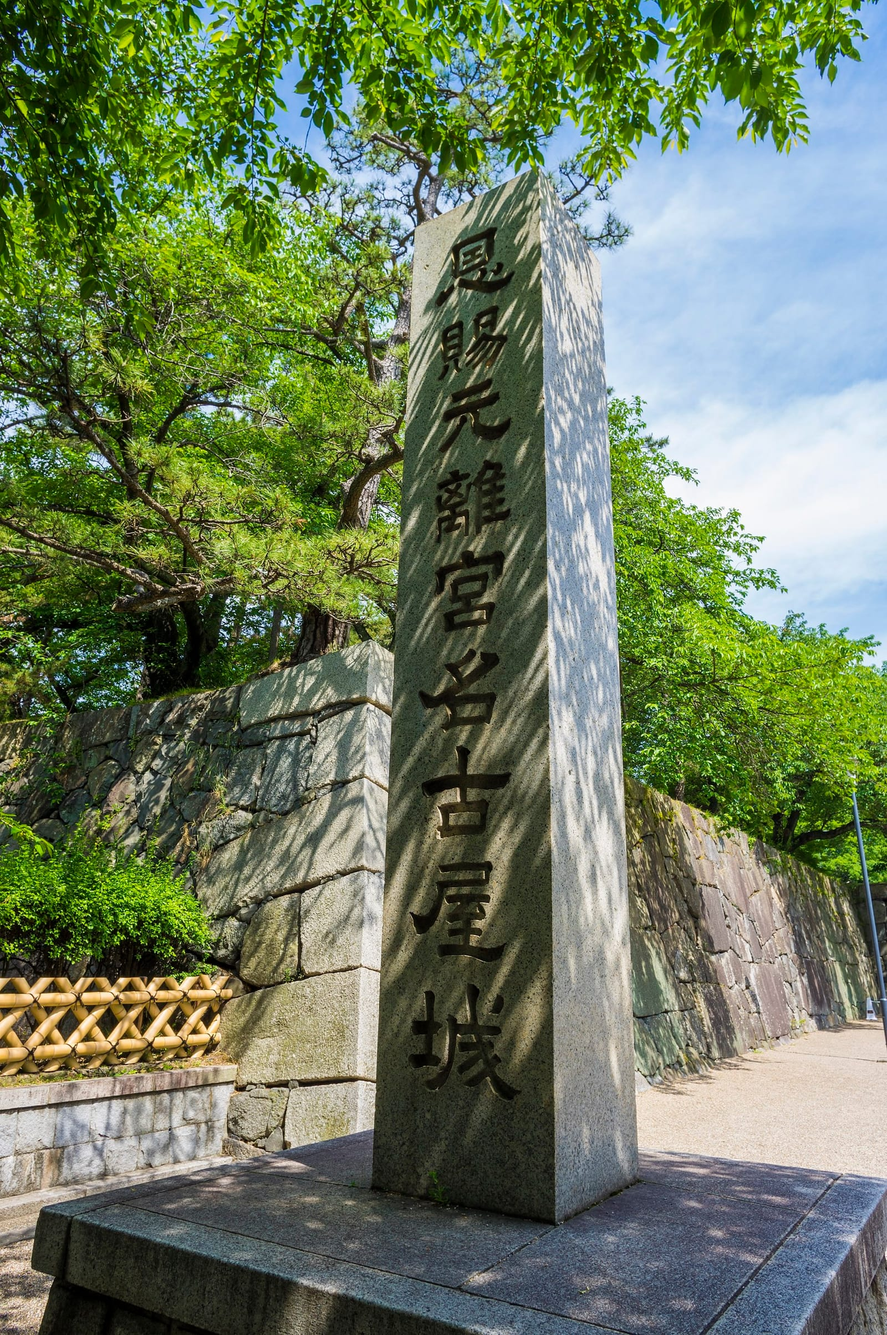
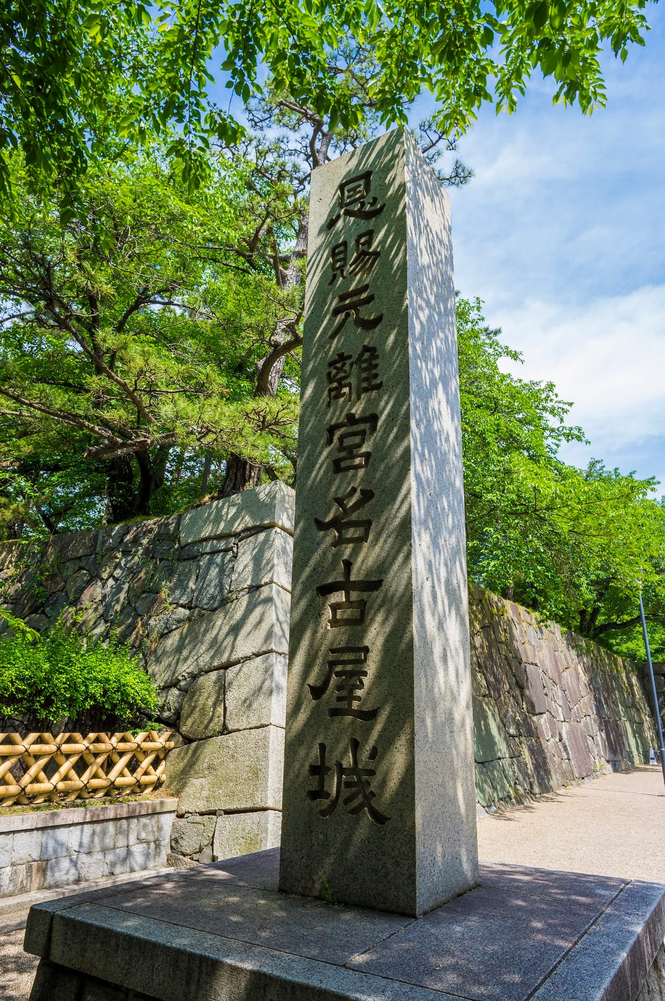
Lead Nagoya Castle with the keep photo and refine the type
- Main image is now the castle keep; the stone marker moves to the gallery
- New optional image_focus field sets where the main photo is cropped;
  Nagoya Castle uses 70% 50% so the keep stays whole on phones
- Body, navigation and labels: Inter -> Jost
- Japanese names (lang="ja"): Shippori Mincho instead of the phone's Gothic
- Update dist tests for the new main image

Claude-Session: https://claude.ai/code/session_0149cuZUsVRWJcY2Hzv2etQa

Changed region(s): [[0.1233, 0.6515, 0.185, 0.6825]]

diff --git a/tests/dist/spot-pages.test.ts b/tests/dist/spot-pages.test.ts
@@ -16,12 +16,14 @@ describe('built site', () => {
 describe('Nagoya Castle page', () => {
   const html = read('spots/nagoya-castle/index.html');
 
-  it('uses the stone monument photo as the main image', () => {
-    expect(html).toMatch(/<img[^>]+src="\/_astro\/nagoya-castle-stone-monument\.[^"]+"/);
+  it('leads with the castle keep photo, anchored so the keep stays in frame', () => {
+    const firstImg = html.match(/<img[^>]+>/)?.[0] ?? '';
+    expect(firstImg).toMatch(/src="\/_astro\/nagoya-castle-keep\.[^"]+"/);
+    expect(firstImg).toContain('object-position: 70% 50%');
   });
 
   it('shows every gallery photo with its alt text', () => {
-    for (const name of ['keep', 'shachihoko', 'hommaru-palace', 'moat']) {
+    for (const name of ['stone-monument', 'shachihoko', 'hommaru-palace', 'moat']) {
       expect(html).toMatch(new RegExp(`<img[^>]+src="/_astro/nagoya-castle-${name}\\.[^"]+"[^>]*alt="[^"]{5,}"`));
     }
   });

diff --git a/src/styles/global.css b/src/styles/global.css
@@ -16,7 +16,7 @@
   --color-current: currentColor;
 
   --font-serif: 'Cormorant Garamond', 'Iowan Old Style', 'Palatino Linotype', Georgia, serif;
-  --font-sans: 'Inter Variable', 'Inter', ui-sans-serif, system-ui, -apple-system, 'Segoe UI', sans-serif;
+  --font-sans: 'Jost Variable', 'Jost', ui-sans-serif, system-ui, -apple-system, 'Segoe UI', sans-serif;
 
   --shadow-*: initial;
   --radius-soft: 0;
@@ -295,5 +295,17 @@
     letter-spacing: 0.2em;
     text-transform: uppercase;
     color: var(--color-gold);
+  }
+}
+
+/* Japanese names: a refined Mincho instead of the phone's default Gothic.
+   Kept last, and as [lang] + .label, so it wins over the .label font. */
+@layer components {
+  [lang='ja'],
+  .label[lang='ja'],
+  .label [lang='ja'] {
+    font-family: 'Shippori Mincho', 'Hiragino Mincho ProN', 'Yu Mincho', serif;
+    font-weight: 400;
+    letter-spacing: 0.12em;
   }
 }

diff --git a/src/lib/schemas.ts b/src/lib/schemas.ts
@@ -89,6 +89,11 @@ export function createSpotSchema<I extends AnySchema, A extends AnySchema, C ext
       image: image(),
       image_alt: z.string().trim().min(5),
       image_credit: z.string().trim().min(1),
+      /** Where to anchor the main photo when it is cropped, as CSS object-position, e.g. "70% 50%". */
+      image_focus: z
+        .string()
+        .regex(/^\d{1,3}% \d{1,3}%$/, 'Use "X% Y%", e.g. "70% 50%"')
+        .optional(),
       /** Extra photos shown as a swipeable strip under the title. */
       gallery: z
         .array(
